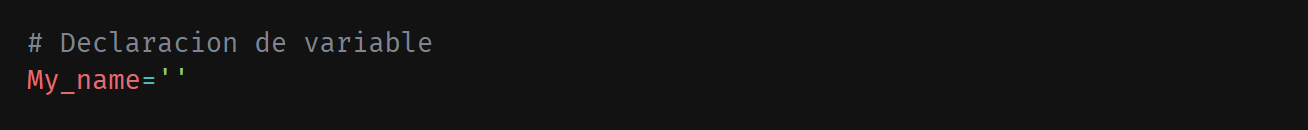
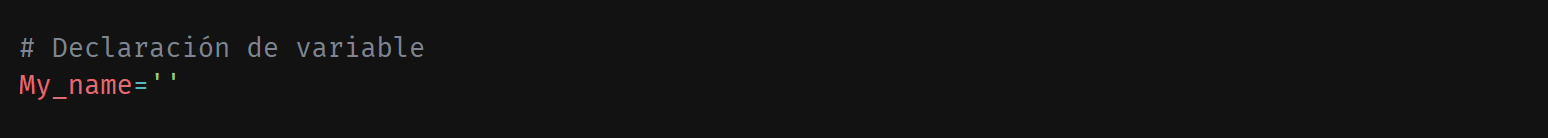
breativo

Changed region(s): [[0.0, 0.2462, 0.3364, 0.4308], [0.0, 0.5231, 0.1529, 0.7385]]

diff --git a/01_Variables_Python/Variables_Python.py b/01_Variables_Python/Variables_Python.py
@@ -4,14 +4,17 @@ Variables Python
 
 '''
 
-# Declaracion de variable
+# Declaración de variable
 My_name=''
+my_name=''
 
 # Asignación de variable
 My_name='breativo'
+my_name='developer'
 
 # Imprimir por consola la variable
-print(My_name) #breativo
+print(My_name) # breativo
+print(my_name) # developer
 
 # Tipos de variables sencillas
 my_string='breativo' # Cadena de texto
@@ -23,24 +26,23 @@ my_dict={'name':'brativo', 'age':1} # dict
 my_tuple=(1,2,3)     # tuple
 my_set=([1,2], [3,4])# set   
 
-print(my_string, my_int, my_float, my_boolean, my_list, my_dict, my_tuple, my_set) # breativo 1 1.11 True [1, 2, 3, 4] {'name': 'brativo', 'age': 1} (1, 2, 3) ([1, 2], [3, 4])
+print(my_string, my_int, my_float, my_boolean, my_list, my_dict, my_tuple, my_set) # breativo 1 1.11 True [1, 2, 3, 4] {'name': 'breativo', 'age': 1} (1, 2, 3) ([1, 2], [3, 4])
 print(my_string) # breativo
 print(my_int)    # 1
 print(my_float)  # 1.11
 print(my_boolean)# Treu
 print(my_list) # [1, 2, 3, 4]
-print(my_dict) # {'name': 'brativo', 'age': 1}
+print(my_dict) # {'name': 'breativo', 'age': 1}
 print(my_tuple)# (1, 2, 3)
 print(my_set)  # ([1, 2], [3, 4])
 
-
-# Declaración de multiples variables en una linea
+# Declaración de múltiples variables en una línea
 My_name, My_age, My_location='','',''
 
 #  Asignación de multiples variables en una linea
 My_name, My_age, My_location='breativo',0,'Talavera'
 
-# Imprimir por consola las multiples variables
+# Imprimir por consola las múltiples variables
 print(My_name, My_age, My_location)#breativo 0 Talavera
 print(My_name) #breativo
 print(My_age) #0
@@ -56,14 +58,12 @@ print(My_age)  # El resultado que introducimos por teclado
 My_name='breativo'
 print(type(My_name)) # str
 
-
-# Comprobar el tamaño de la variable (Función Len)
+# Comprobar el tamaño de la variable (Función len)
 My_name= 'breativo'
 print(len(My_name)) # 8
 
 My_string='Este curso es perfecto para comprender y comenzar a trabajar con Python'
 print(len(My_string)) # 71
-
 
 # Reasignación de variable
 My_variable=10
@@ -71,7 +71,6 @@ print('Mi número favorito es', My_variable) # Mi numero favorito es 10
 
 My_variable=2
 print('Mi número favorito es', My_variable) # Mi numero favorito es 2
-
 
 
 # Cambio de tipo de variable
@@ -84,9 +83,8 @@ print(My_variable) # 1
 My_variable=True
 print(My_variable) # True
 
-
-# Convertir un tipo de dato a oto diferente
-## Cambiar un numero entero a decimal
+# Convertir un tipo de dato a otro diferente
+## Cambiar un número entero a decimal
 My_number=10
 print(type(My_number)) # int
 print(type(float(My_number))) # float
@@ -96,7 +94,7 @@ My_number_float=float(My_number)
 print(My_number_float) # 10.0
 print(type(My_number_float)) # float
 
-## Cambiar un numero entero a texto
+## Cambiar un número entero a texto
 My_number=10
 print(My_number) # 10
 print(type(My_number)) # int
@@ -116,13 +114,13 @@ My_list=list(My_name)
 print(My_list) # ['b', 'r', 'e', 'a', 't', 'i', 'v', 'o']
 print(type(My_list)) # list
 
-
 # Concatenar variables
 My_name='breativo'
 print('Curso de Python realizado por', My_name) # Curso de Python realizado por breativo
 
 My_surname= 'developer'
-print('Este curso esta realizado por', My_name +' '+ My_surname) # Este curso esta realizado por breativo developer
+print('Este curso está realizado por', My_name +' '+ My_surname) # Este curso está realizado por breativo developer
+
 
 
 
